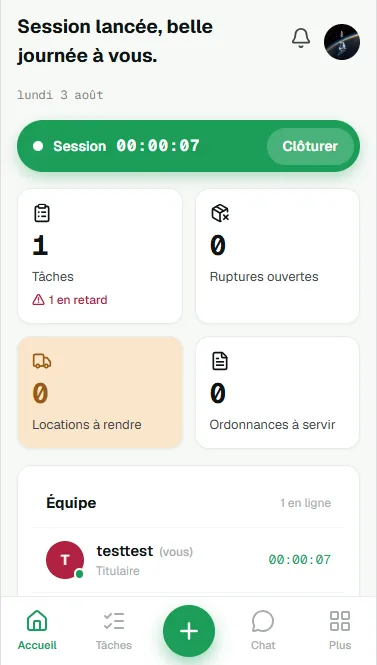
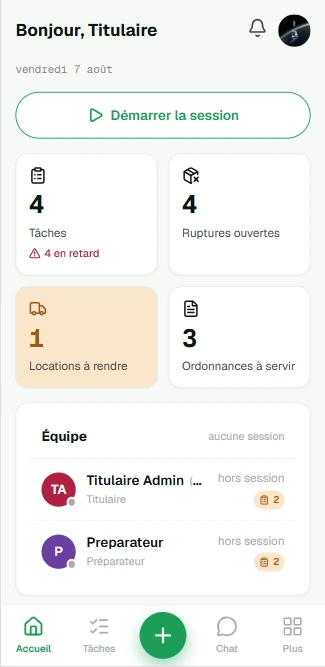
Remplace la capture d accueil
Nouvelle capture fournie par le client (acceuil2), convertie en WebP
sous le nom du slot, accueil.webp : 325x667, 21 Ko.

L ecran a change : la session n est plus lancee, les compteurs ne sont
plus a zero et l ancien libelle testtest a disparu. Le texte alternatif
et le brief sont mis en accord.

diff --git a/lib/screens.ts b/lib/screens.ts
@@ -35,9 +35,9 @@ export const screens = {
     id: "accueil",
     src: "/screens/accueil.webp",
     variant: "phone",
-    alt: "Écran d'accueil : session de pointage en cours, indicateurs de l'officine et carte de l'équipe en poste.",
+    alt: "Écran d'accueil : bouton de démarrage de session, compteurs de tâches, de ruptures ouvertes, de locations à rendre et d'ordonnances à servir, puis la carte de l'équipe.",
     brief:
-      "Accueil — session de pointage démarrée, les KPI temps réel, la carte Équipe.",
+      "Accueil — le bouton « Démarrer la session », les quatre compteurs, la carte Équipe.",
   },
   scan: {
     id: "scan",
